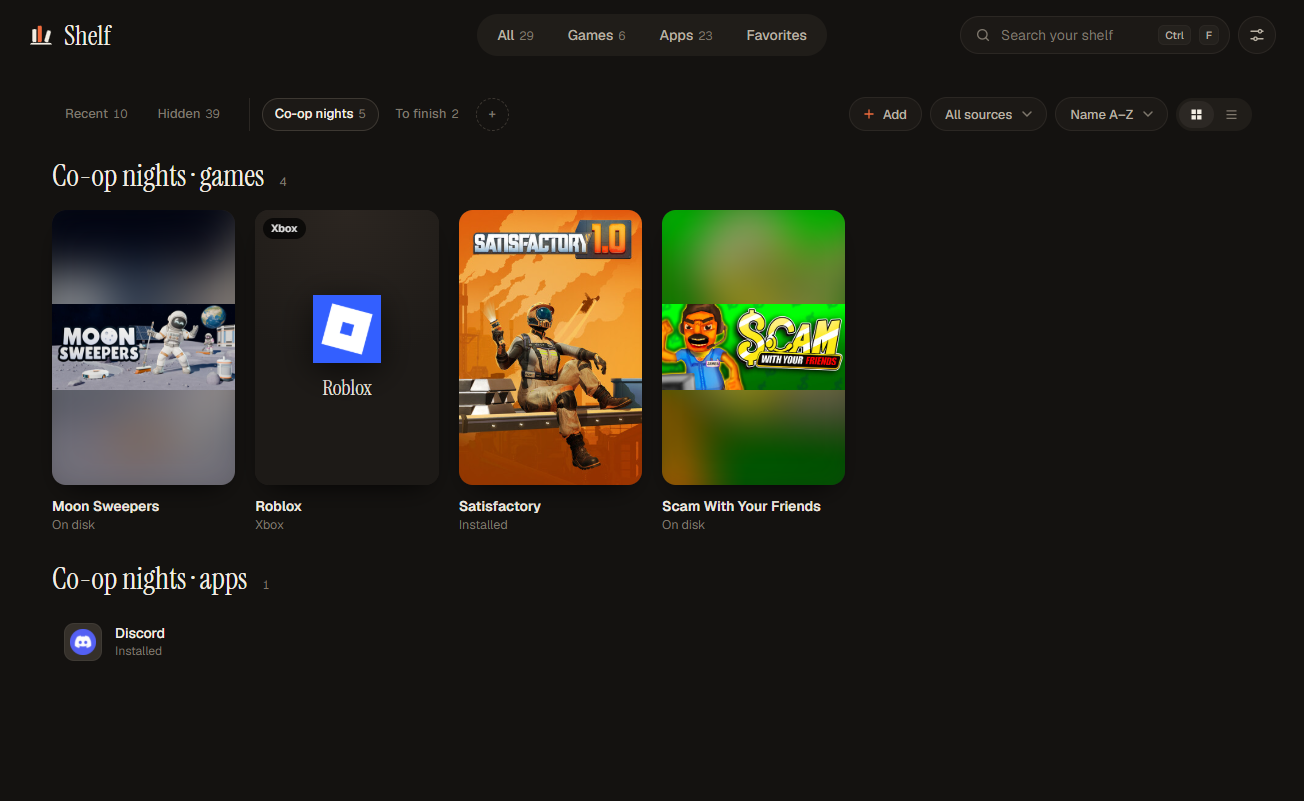
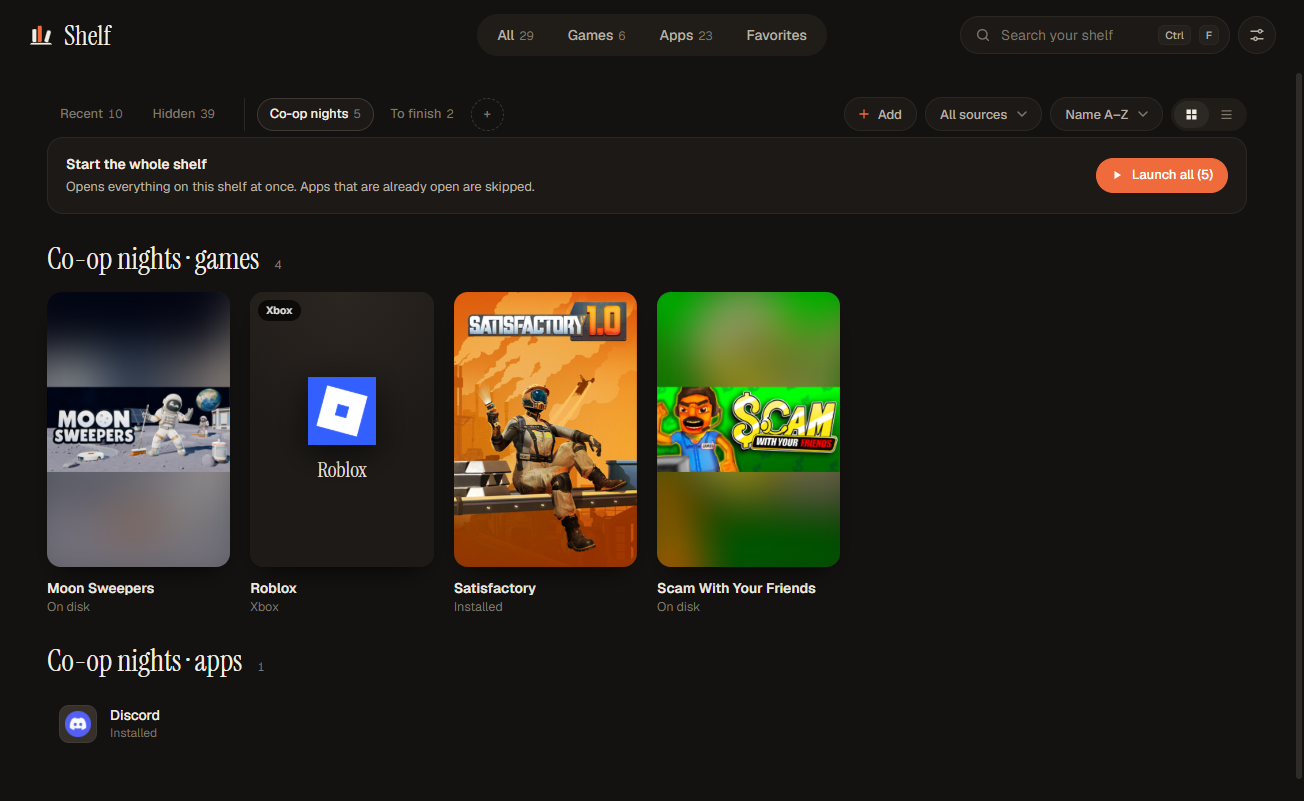
Launch a whole shelf at once
- "Launch all" banner on a shelf and in the shelf's right-click menu
- Shelves show up in Ctrl+Space; Enter starts everything on them
- Apps that already have a window are skipped, the rest start 0.5 s apart
- Summary toast: started / already open / failed

diff --git a/renderer/quick.js b/renderer/quick.js
@@ -17,6 +17,7 @@ function applyI18n() {
 }
 
 let items = [];
+let shelves = [];
 let shown = [];
 let sel = 0;
 let msg = '';
@@ -51,6 +52,13 @@ function score(it, q) {
   return s - n.length / 100;
 }
 
+// shelves show up as rows that start everything on them
+function shelfRows() {
+  return shelves
+    .map((s) => ({ shelf: true, id: 'shelf:' + s.id, sid: s.id, name: s.name, canLaunch: true, count: items.filter((i) => (i.shelves || []).includes(s.id) && !i.leftover && i.canLaunch).length }))
+    .filter((s) => s.count);
+}
+
 function compute() {
   const q = fold(input.value.trim());
   const pool = items.filter((i) => !i.hidden && !i.leftover);
@@ -60,11 +68,13 @@ function compute() {
     const groups = [];
     if (recent.length) groups.push([t('q.recent'), recent]);
     if (favs.length) groups.push([t('q.fav'), favs]);
+    const sh = shelfRows().slice(0, 3);
+    if (sh.length) groups.push([t('q.shelves'), sh]);
     if (!groups.length) groups.push([t('q.games'), pool.filter((i) => i.category === 'game').slice(0, 8)]);
     return groups;
   }
-  const hits = pool
-    .map((i) => [i, score(i, q)])
+  const hits = [...pool, ...shelfRows()]
+    .map((i) => { const s = score(i, q); return [i, s >= 0 && i.shelf ? s + 5 : s]; })
     .filter(([, s]) => s >= 0)
     .sort((a, b) => b[1] - a[1])
     .slice(0, 8)
@@ -79,6 +89,7 @@ function highlight(name, q) {
   return esc(name.slice(0, i)) + '<mark>' + esc(name.slice(i, i + q.length)) + '</mark>' + esc(name.slice(i + q.length));
 }
 
+const SHELF_ICON = '<svg viewBox="0 0 48 48" width="22" height="22"><rect x="8" y="13" width="7.5" height="24" rx="2.6" fill="currentColor"/><rect x="18" y="7" width="7.5" height="30" rx="2.6" style="fill:var(--accent)"/><rect x="29.5" y="15" width="7.5" height="22" rx="2.6" fill="currentColor" transform="rotate(16 33.25 37)"/><rect x="5" y="38.5" width="38" height="3.2" rx="1.6" fill="currentColor"/></svg>';
 const icons = new Map();
 function render() {
   const q = fold(input.value.trim());
@@ -90,13 +101,13 @@ function render() {
   for (const [label, list] of groups) {
     if (label && list.length) html += `<div class="label">${label}</div>`;
     for (const it of list) {
-      const sub = [t(it.category === 'game' ? 'type.game' : 'type.app'), srcLabel(it.source), it.lastLaunch ? ago(it.lastLaunch) : null]
+      const sub = (it.shelf ? [t('q.shelf'), t('q.shelfSub', it.count)] : [t(it.category === 'game' ? 'type.game' : 'type.app'), srcLabel(it.source), it.lastLaunch ? ago(it.lastLaunch) : null])
         .filter(Boolean)
         .join(' · ');
       const ic = icons.get(it.id);
       const letter = `<div class="letter" style="background:linear-gradient(135deg,hsl(${hue(it.name)} 40% 48%),hsl(${(hue(it.name) + 40) % 360} 45% 34%))">${esc((it.name.match(/[\p{L}\p{N}]/u) || ['?'])[0].toUpperCase())}</div>`;
       html += `<div class="row${idx === sel ? ' sel' : ''}${it.canLaunch ? '' : ' dead'}" data-i="${idx}">
-        <div class="ic" data-icon="${esc(it.id)}">${ic ? `<img src="${ic}" alt="">` : letter}</div>
+        ${it.shelf ? `<div class="ic shelf-ic">${SHELF_ICON}</div>` : `<div class="ic" data-icon="${esc(it.id)}">${ic ? `<img src="${ic}" alt="">` : letter}</div>`}
         <div class="txt"><div class="nm">${highlight(it.name, q)}</div><div class="sb">${esc(sub)}</div></div>
         <div class="go">${it.canLaunch ? 'Enter ↵' : esc(t('q.noFile'))}</div>
       </div>`;
@@ -140,6 +151,10 @@ function move(d) {
 async function activate(folder) {
   const it = shown[sel];
   if (!it) return;
+  if (it.shelf) {
+    api.launchShelf(it.sid); // starts them one by one in the background
+    return api.quickHide();
+  }
   if (folder) {
     await api.openFolder(it.id);
     return api.quickHide();
@@ -182,7 +197,7 @@ results.addEventListener('click', (e) => {
 });
 $('#openMain').addEventListener('click', () => api.openMain());
 
-api.on('library:items', (p) => { items = p.items; render(); });
+api.on('library:items', (p) => { items = p.items; shelves = p.shelves || []; render(); });
 api.on('theme:changed', (m) => Theme.set(m));
 api.on('lang:changed', (l) => { I18N.setLang(l); applyI18n(); render(); });
 api.on('icons:ready', () => { icons.clear(); render(); });
@@ -192,6 +207,7 @@ api.on('quick:open', async () => {
   msg = '';
   const p = await api.getLibrary();
   items = p.items;
+  shelves = p.shelves || [];
   I18N.setLang(p.lang);
   Theme.set(p.theme);
   applyI18n();
@@ -202,6 +218,7 @@ api.on('quick:open', async () => {
 (async () => {
   const p = await api.getLibrary();
   items = p.items;
+  shelves = p.shelves || [];
   I18N.setLang(p.lang);
   Theme.set(p.theme);
   applyI18n();

diff --git a/renderer/i18n.js b/renderer/i18n.js
@@ -27,6 +27,10 @@
       'search.ph': 'Search your shelf',
       'sort.name': 'Name A–Z', 'sort.recent': 'Recently played', 'sort.size': 'Size', 'sort.installed': 'Install date', 'sort.played': 'Most played', 'playing': 'Playing now',
       'shelf.new': 'New shelf', 'shelf.add': 'Add to shelf', 'shelf.rename': 'Rename shelf', 'shelf.delete': 'Delete shelf',
+      'shelf.launch': 'Launch all', 'shelf.launchAll': (n) => `Launch all (${n})`,
+      'shelf.barTitle': 'Start the whole shelf', 'shelf.barText': 'Opens everything on this shelf at once. Apps that are already open are skipped.',
+      'shelf.launching': (n) => `Launching ${n}…`, 'shelf.started': (n) => `Started ${n}`, 'shelf.wasOpen': (n) => `${n} already open`,
+      'shelf.failedN': (n) => `${n} failed`, 'shelf.emptyLaunch': 'Nothing on this shelf can be launched',
       'shelf.ph': 'e.g. To finish, Co-op with friends', 'shelf.empty': 'Right-click any game or app and pick this shelf under “Add to shelf”.',
       'shelf.added': (n) => `Added to “${n}”`, 'shelf.removed': (n) => `Removed from “${n}”`,
       'shelf.created': (n) => `Shelf “${n}” created`, 'shelf.deleted': (n) => `Shelf “${n}” deleted – your games stay where they were`,
@@ -92,7 +96,7 @@
       'q.ph': 'What are we playing today?', 'q.open': 'Open Shelf',
       'q.select': 'select', 'q.launch': 'launch', 'q.folder': 'folder', 'q.close': 'close', 'q.noFile': 'no file',
       'q.none': (q) => `Nothing matches “${q}”`, 'q.noFileMsg': 'Couldn’t find a file to launch – Shift+Enter opens the folder.',
-      'q.recent': 'Recently played', 'q.fav': 'Favorites', 'q.games': 'Games',
+      'q.recent': 'Recently played', 'q.fav': 'Favorites', 'q.games': 'Games', 'q.shelves': 'Shelves', 'q.shelf': 'Shelf', 'q.shelfSub': (n) => `launch all (${n})`,
     },
     pl: {
       'brand.tagline': 'Wszystko, co masz. Na jednej półce.',
@@ -111,6 +115,10 @@
       'search.ph': 'Szukaj na półce',
       'sort.name': 'Nazwa A–Z', 'sort.recent': 'Ostatnio uruchamiane', 'sort.size': 'Rozmiar', 'sort.installed': 'Data instalacji', 'sort.played': 'Najdłużej grane', 'playing': 'Teraz grasz',
       'shelf.new': 'Nowa półka', 'shelf.add': 'Dodaj na półkę', 'shelf.rename': 'Zmień nazwę półki', 'shelf.delete': 'Usuń półkę',
+      'shelf.launch': 'Uruchom wszystko', 'shelf.launchAll': (n) => `Uruchom wszystko (${n})`,
+      'shelf.barTitle': 'Uruchom całą półkę', 'shelf.barText': 'Otwiera naraz wszystko z tej półki. Apki, które już są otwarte, zostaną pominięte.',
+      'shelf.launching': (n) => `Uruchamiam: ${n}…`, 'shelf.started': (n) => `Uruchomiono: ${n}`, 'shelf.wasOpen': (n) => `już otwarte: ${n}`,
+      'shelf.failedN': (n) => `błędy: ${n}`, 'shelf.emptyLaunch': 'Na tej półce nie ma nic do uruchomienia',
       'shelf.ph': 'np. Do dokończenia, Co-op ze znajomymi', 'shelf.empty': 'Kliknij prawym na grę lub program i wybierz tę półkę w „Dodaj na półkę”.',
       'shelf.added': (n) => `Dodano na „${n}”`, 'shelf.removed': (n) => `Zdjęto z „${n}”`,
       'shelf.created': (n) => `Utworzono półkę „${n}”`, 'shelf.deleted': (n) => `Usunięto półkę „${n}” – gry i programy zostają na miejscu`,
@@ -176,7 +184,7 @@
       'q.ph': 'Co dziś odpalamy?', 'q.open': 'Otwórz Shelf',
       'q.select': 'wybierz', 'q.launch': 'uruchom', 'q.folder': 'folder', 'q.close': 'zamknij', 'q.noFile': 'brak pliku',
       'q.none': (q) => `Nic nie pasuje do „${q}”`, 'q.noFileMsg': 'Nie znalazłem pliku do uruchomienia – Shift+Enter otworzy folder.',
-      'q.recent': 'Ostatnio uruchamiane', 'q.fav': 'Ulubione', 'q.games': 'Gry',
+      'q.recent': 'Ostatnio uruchamiane', 'q.fav': 'Ulubione', 'q.games': 'Gry', 'q.shelves': 'Półki', 'q.shelf': 'Półka', 'q.shelfSub': (n) => `uruchom wszystko (${n})`,
     },
   };
 

diff --git a/renderer/app.js b/renderer/app.js
@@ -298,6 +298,11 @@ function render() {
     const tApps = view.cat === 'all' ? t('sec.apps') : t('sec.ofApps', catTitle(view.cat));
     html = section(tGames, games, 'games') + section(tApps, apps, 'apps');
   }
+  const sh = shelfOf(view.cat);
+  if (sh) {
+    const n = items.filter((i) => (i.shelves || []).includes(sh.id) && i.canLaunch && !i.leftover).length;
+    html = `<div class="cleanup shelf-bar"><div><b>${esc(t('shelf.barTitle'))}</b><span>${esc(t('shelf.barText'))}</span></div><button class="btn primary" data-launch-shelf="${esc(sh.id)}" ${n ? '' : 'disabled'}><svg width="12" height="12" viewBox="0 0 24 24"><path fill="currentColor" d="M7 4v16l13-8z"/></svg>${esc(t('shelf.launchAll', n))}</button></div>` + html;
+  }
   if (view.cat === 'leftover') html = `<div class="cleanup"><div><b>${esc(t('left.bannerTitle'))}</b><span>${esc(t('left.bannerText'))}</span></div><button class="btn primary" data-cleanup-all>${esc(t('left.cleanAll', list.length))}</button></div>` + html;
   content.innerHTML = html;
   renderCounts();
@@ -521,6 +526,8 @@ menu.addEventListener('click', async (e) => {
       if (name) saveShelves(shelves.map((x) => (x === s ? { ...x, name } : x)));
       return;
     }
+    case 'shelf-launch':
+      return launchShelf(menu.dataset.shelf);
     case 'shelf-delete': {
       const s = shelves.find((x) => x.id === menu.dataset.shelf);
       if (!s) return;
@@ -703,6 +710,18 @@ coverDlg.addEventListener('keydown', (e) => {
   }
 });
 
+// ---------- launch a whole shelf ----------
+async function launchShelf(sid) {
+  const s = shelves.find((x) => x.id === sid);
+  if (!s) return;
+  toast(t('shelf.launching', s.name));
+  const r = await api.launchShelf(sid);
+  if (!r.total) return toast(t('shelf.emptyLaunch'), true);
+  const parts = [r.launched ? t('shelf.started', r.launched) : null, r.running ? t('shelf.wasOpen', r.running) : null, r.failed ? t('shelf.failedN', r.failed) : null];
+  const text = parts.filter(Boolean).join(' · ');
+  toast(text.charAt(0).toUpperCase() + text.slice(1), !!r.failed);
+}
+
 // ---------- leftovers clean-up ----------
 async function cleanup(ids) {
   if (!ids.length) return;
@@ -775,7 +794,7 @@ function openShelfMenu(sid, x, y) {
   const s = shelves.find((v) => v.id === sid);
   if (!s) return;
   const btn = (act, ico, label, opts = '') => `<button data-act="${act}" ${opts}><span class="m-ico">${ico}</span>${esc(label)}</button>`;
-  menu.innerHTML = `<div class="m-head">${esc(s.name)}</div>${btn('shelf-rename', '✎', t('shelf.rename'))}${btn('shelf-delete', '✕', t('shelf.delete'), 'class="danger"')}`;
+  menu.innerHTML = `<div class="m-head">${esc(s.name)}</div>${btn('shelf-launch', '▶', t('shelf.launch'))}<div class="sep"></div>${btn('shelf-rename', '✎', t('shelf.rename'))}${btn('shelf-delete', '✕', t('shelf.delete'), 'class="danger"')}`;
   menu.dataset.shelf = sid;
   menu.hidden = false;
   const r = menu.getBoundingClientRect();
@@ -964,6 +983,8 @@ function renderHotkey() {
 // ---------- events ----------
 const content = $('#content');
 content.addEventListener('click', (e) => {
+  const ls = e.target.closest('[data-launch-shelf]');
+  if (ls) return launchShelf(ls.dataset.launchShelf);
   if (e.target.closest('[data-cleanup-all]')) return cleanup(items.filter((i) => i.leftover).map((i) => i.id));
   const more = e.target.closest('[data-goto]');
   if (more) return setCat(more.dataset.goto);

diff --git a/main.js b/main.js
@@ -396,6 +396,36 @@ ipcMain.handle('library:scan', () => {
   return true;
 });
 
+// ---------- launch a whole shelf ----------
+// Starts everything on a shelf, one by one. Apps that already have a window are skipped.
+async function launchShelf(sid) {
+  const list = state.items.map(view).filter((i) => (i.shelves || []).includes(sid) && !i.leftover && i.canLaunch);
+  const res = { total: list.length, launched: 0, running: 0, failed: 0 };
+  if (!list.length) return res;
+  const exes = await runningExes();
+  for (const it of list) {
+    const m = runningMatch(it);
+    if (exes && m && exes.windowed.some((e) => (m.prefix ? e.startsWith(m.prefix) : e === m.exact))) {
+      res.running++;
+      continue;
+    }
+    try {
+      if (res.launched) await new Promise((r) => setTimeout(r, 500)); // don't start everything in the same instant
+      await launch(find(it.id));
+      const ov = (state.overrides[it.id] ||= {});
+      ov.lastLaunch = Date.now();
+      ov.launches = (ov.launches || 0) + 1;
+      res.launched++;
+    } catch {
+      res.failed++;
+    }
+  }
+  saveState();
+  send('library:items', payload());
+  return res;
+}
+ipcMain.handle('shelf:launch', (_e, sid) => launchShelf(String(sid)));
+
 ipcMain.handle('item:launch', async (_e, id) => {
   const it = find(id);
   if (!it) return { ok: false, error: 'Nie znaleziono' };

diff --git a/preload.js b/preload.js
@@ -13,6 +13,7 @@ contextBridge.exposeInMainWorld('hub', {
   setAutostart: (on) => ipcRenderer.invoke('autostart:set', on),
   getLang: () => ipcRenderer.invoke('lang:get'),
   setLang: (l) => ipcRenderer.invoke('lang:set', l),
+  launchShelf: (id) => ipcRenderer.invoke('shelf:launch', id),
   saveShelves: (list) => ipcRenderer.invoke('shelves:save', list),
   removeLeftovers: (ids) => ipcRenderer.invoke('leftover:remove', ids),
   openPath: (p) => ipcRenderer.invoke('app:openPath', p),

diff --git a/renderer/quick.css b/renderer/quick.css
@@ -70,3 +70,5 @@ kbd {
   font: 500 10.5px Geist, sans-serif; padding: 1px 5px; border-radius: 5px; border: 1px solid var(--line);
   background: var(--hover); color: var(--ink-2); margin-right: 2px;
 }
+
+.row .ic.shelf-ic { color: var(--ink); background: var(--accent-soft, #f06b3c22); }

diff --git a/renderer/style.css b/renderer/style.css
@@ -418,3 +418,6 @@ kbd {
 }
 
 [hidden] { display: none !important; }
+
+.shelf-bar { margin-top: 0; margin-bottom: 6px; }
+.shelf-bar .btn svg { margin-right: 2px; }

diff --git a/README.md b/README.md
@@ -37,7 +37,7 @@ After a few years every PC turns into an attic. Games live in four different lau
 - **Add anything by hand.** Shelf missed something? Click **Add** or drop an .exe or a shortcut onto the window.
 - **Pick your own cover.** Search Steam for any cover art, or use a picture from your disk.
 - **Already open? It comes to the front.** Launching an app that is already running shows its window instead of doing nothing.
-- **Your own shelves.** Group anything into collections such as *Co-op nights* or *To finish*.
+- **Your own shelves.** Group anything into collections such as *Co-op nights* or *To finish* – then start the whole shelf in one go, from the shelf itself or by typing its name in <kbd>Ctrl</kbd>+<kbd>Space</kbd>. Apps that are already open are left alone.
 - **Playtime for every game.** Shelf notices when a game is running, however you started it, and counts the hours – not only for Steam.
 - **Recently played, favorites, hidden.** Pick up where you left off, star what matters, hide what doesn't.
 - **Leftover clean-up.** Finds dead "installed program" entries and empty folders left behind by uninstalled games, and removes them in one click (with a registry backup first).
